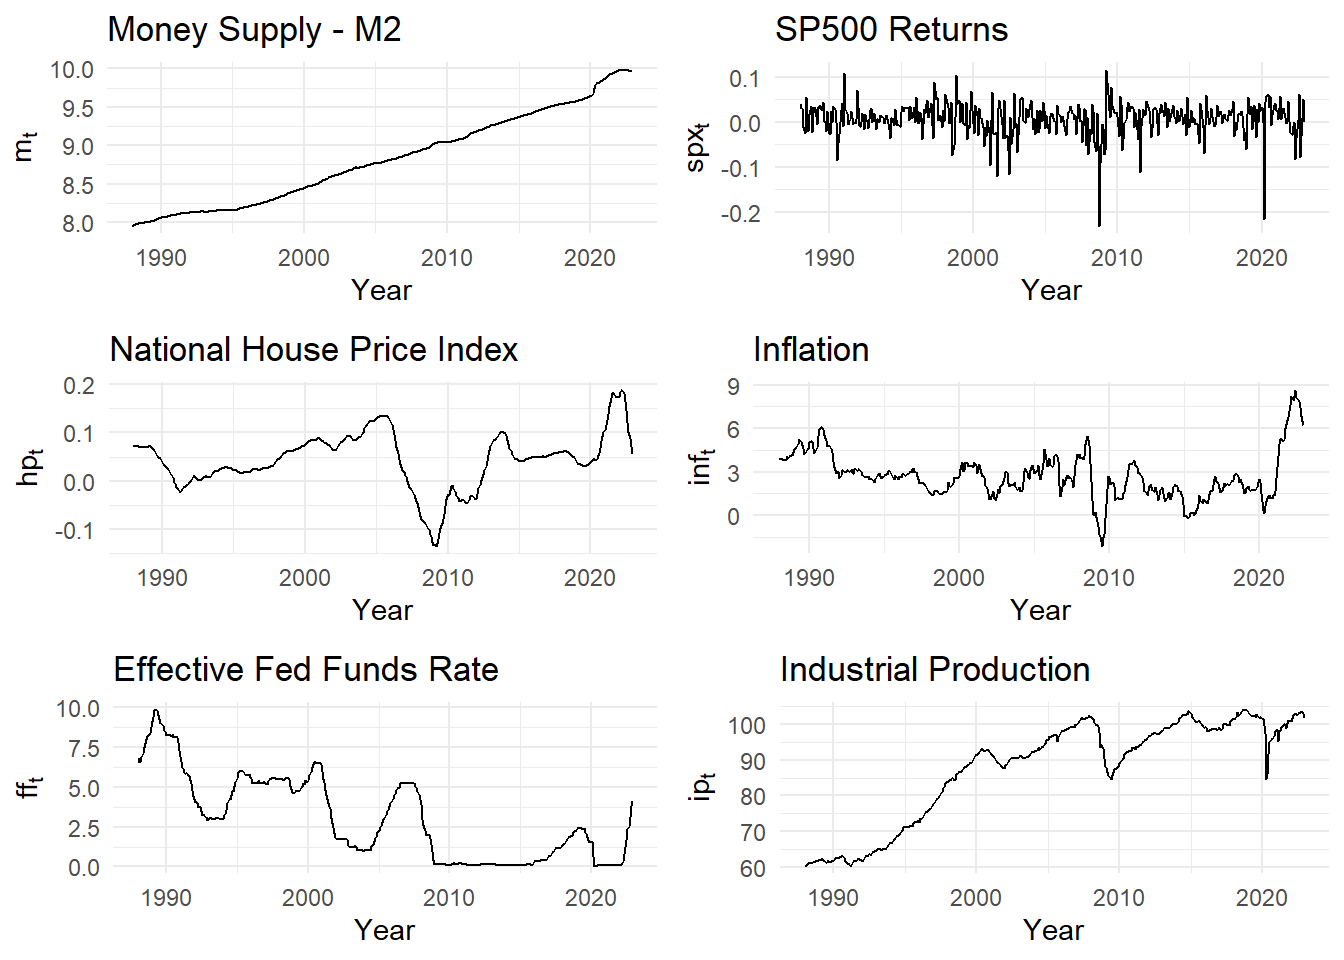
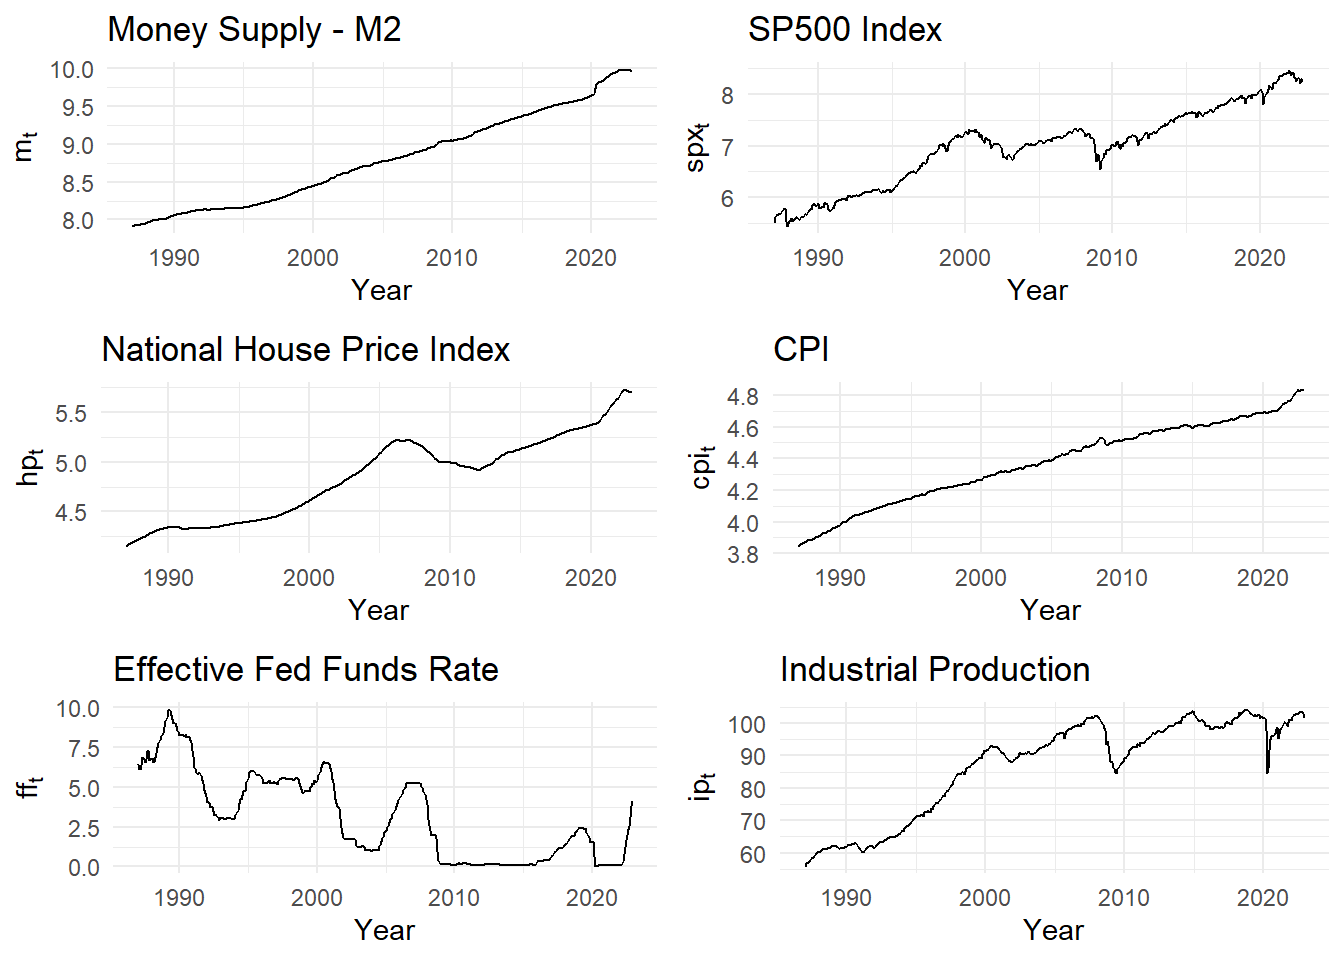
Incorporating changes in the website

diff --git a/docs/index.html b/docs/index.html
@@ -158,16 +158,8 @@ ul.task-list li input[type="checkbox"] {
 </ul>
 <p>Data from FRED Database is downloaded using the <strong>fredr</strong> package, while data from Yahoo Finance is downloaded using the <strong>quantmod</strong> package. My sample period will be from M1 1987 - M12 2022 as data for <span class="math inline">\(HP_t\)</span> only goes back to this period. As I am including stock prices in my model I choose the frequency of the data to be monthly and not quarterly as stocks are highly volatile and liquid. Hence, the choice of industrial production as a proxy for GDP.</p>
 <p><strong>Transformation and visualisation of the variables</strong></p>
-<p>Since the effective fed funds rate, <span class="math inline">\(ff_t\)</span>, is in percentages it is not being transformed. For the money supply, <span class="math inline">\(M_t\)</span>, the log is taken:</p>
-<p><span class="math inline">\(m_t=\log(M_t)\)</span></p>
-<p>The same goes for <span class="math inline">\(SPX_t\)</span>, whereafter MoM returns are computed by taking first differences:</p>
-<p><span class="math inline">\(spx_t=\log(SPX_t-SPX_{t-1})\)</span></p>
-<p>For <span class="math inline">\(HP_t\)</span> I compute YoY returns by taking the differences with respect to the 12th lag. The reason for computing YoY returns for house prices is the lack of liquidity compared to stock markets.</p>
-<p><span class="math inline">\(hp_t=\log(HP_t-HP_{t-12})\)</span></p>
-<p>To compute YoY inflation the same is being done for <span class="math inline">\(CPI_t\)</span>:</p>
-<p><span class="math inline">\(inf_t=\log(CPI_t-CPI_{t-12})\)</span></p>
-<p>And last but not least the YoY growth of <span class="math inline">\(IP_t\)</span> is being computed:</p>
-<p><span class="math inline">\(ip_t=\log(IP_t-IP_{t-12})\)</span></p>
+<p>Since the effective fed funds rate, <span class="math inline">\(ff_t\)</span>, is in percentages it is not being transformed. However, for the rest of the variables the log-transformation is being applied and we therefore get the following:</p>
+<p><span class="math inline">\(m_t=\log(M_t)\)</span>, <span class="math inline">\(spx_t=\log(SPX_t)\)</span>, <span class="math inline">\(hp_t=\log(HP_t)\)</span>, <span class="math inline">\(cpi_t=\log(CPI_t)\)</span>, <span class="math inline">\(ip_t=\log(IP_t)\)</span>.</p>
 <p>This results in the following plots for the variables:</p>
 <div class="cell">
 
@@ -177,22 +169,22 @@ ul.task-list li input[type="checkbox"] {
 <p><img src="index_files/figure-html/plotting all time series-1.png" class="img-fluid" width="672"></p>
 </div>
 </div>
-<p>From a graphical inspection one can clearly see that <span class="math inline">\(m_t\)</span> and <span class="math inline">\(ip_t\)</span> are not stationary processes and might contain one or more unit roots. However, for <span class="math inline">\(spx_t\)</span>, <span class="math inline">\(hp_t\)</span>, <span class="math inline">\(inf_t\)</span> and <span class="math inline">\(ff_t\)</span> it is rather ambiguous whether the variables are stationary or not. It is essential to know whether we are dealing with non-stationary processes or not when setting the prior distributions for the variables. By making use of the Augmented Dickey Fuller (ADF) test it can be tested formally whether the variables are unit root processes.</p>
+<p>From a graphical inspection one can clearly see that <span class="math inline">\(m_t\)</span>, <span class="math inline">\(spx_t\)</span>, <span class="math inline">\(hp_t\)</span>, <span class="math inline">\(cpi_t\)</span> and <span class="math inline">\(ip_t\)</span> are not stationary processes and might contain one or more unit roots. However, for <span class="math inline">\(ff_t\)</span> it is rather ambiguous whether the variables are stationary or not. It is essential to know whether we are dealing with non-stationary processes or not when setting the prior distributions for the variables. By making use of the Augmented Dickey Fuller (ADF) test it can be tested formally whether the variables are unit root processes.</p>
 <div class="cell">
 
 </div>
 <div class="cell">
 <div class="cell-output cell-output-stdout">
 <pre><code>                         Test statistic P-value Lags
-Money Supply                     -2.593   0.327   12
-SP500 Index                      -5.398   0.010   12
-House Price Index                -2.582   0.331   12
-Inflation                        -0.884   0.954   12
-Effective Fed Funds Rate         -3.161   0.095   12
-Industrial Production            -1.904   0.618   12</code></pre>
+Money Supply                     -2.425   0.398   12
+SP500 Index                      -2.413   0.403   12
+House Price Index                -3.035   0.140   12
+CPI                              -2.988   0.160   12
+Effective Fed Funds Rate         -3.043   0.137   12
+Industrial Production            -1.865   0.635   12</code></pre>
 </div>
 </div>
-<p>By looking at the p-values it seems like <span class="math inline">\(spx_t\)</span> is the only stationary variable as we cannot reject the null hypothesis of the other variables being a I(1) process. However, the test statistic for <span class="math inline">\(hp_t\)</span>, <span class="math inline">\(inf_t\)</span> and <span class="math inline">\(ff_t\)</span> seem to be very sensitive to the choice of lags as we do reject the null hypothesis for other <span class="math inline">\(p\)</span>. For now I will assume that <span class="math inline">\(spx_t\)</span> is the only stationary variable.</p>
+<p>By looking at the p-values it is clear that all variables are non-stationary as we cannot reject the null hypothesis of the variables being a I(1) process. However, the test statistic for <span class="math inline">\(ff_t\)</span> seems to be very sensitive to the choice of lags as we do reject the null hypothesis for other <span class="math inline">\(p\)</span>. I will proceed by treating all variables as unit root non stationary.</p>
 </section>
 <section id="the-model-and-hypothesis" class="level2">
 <h2 class="anchored" data-anchor-id="the-model-and-hypothesis">The model and hypothesis</h2>
